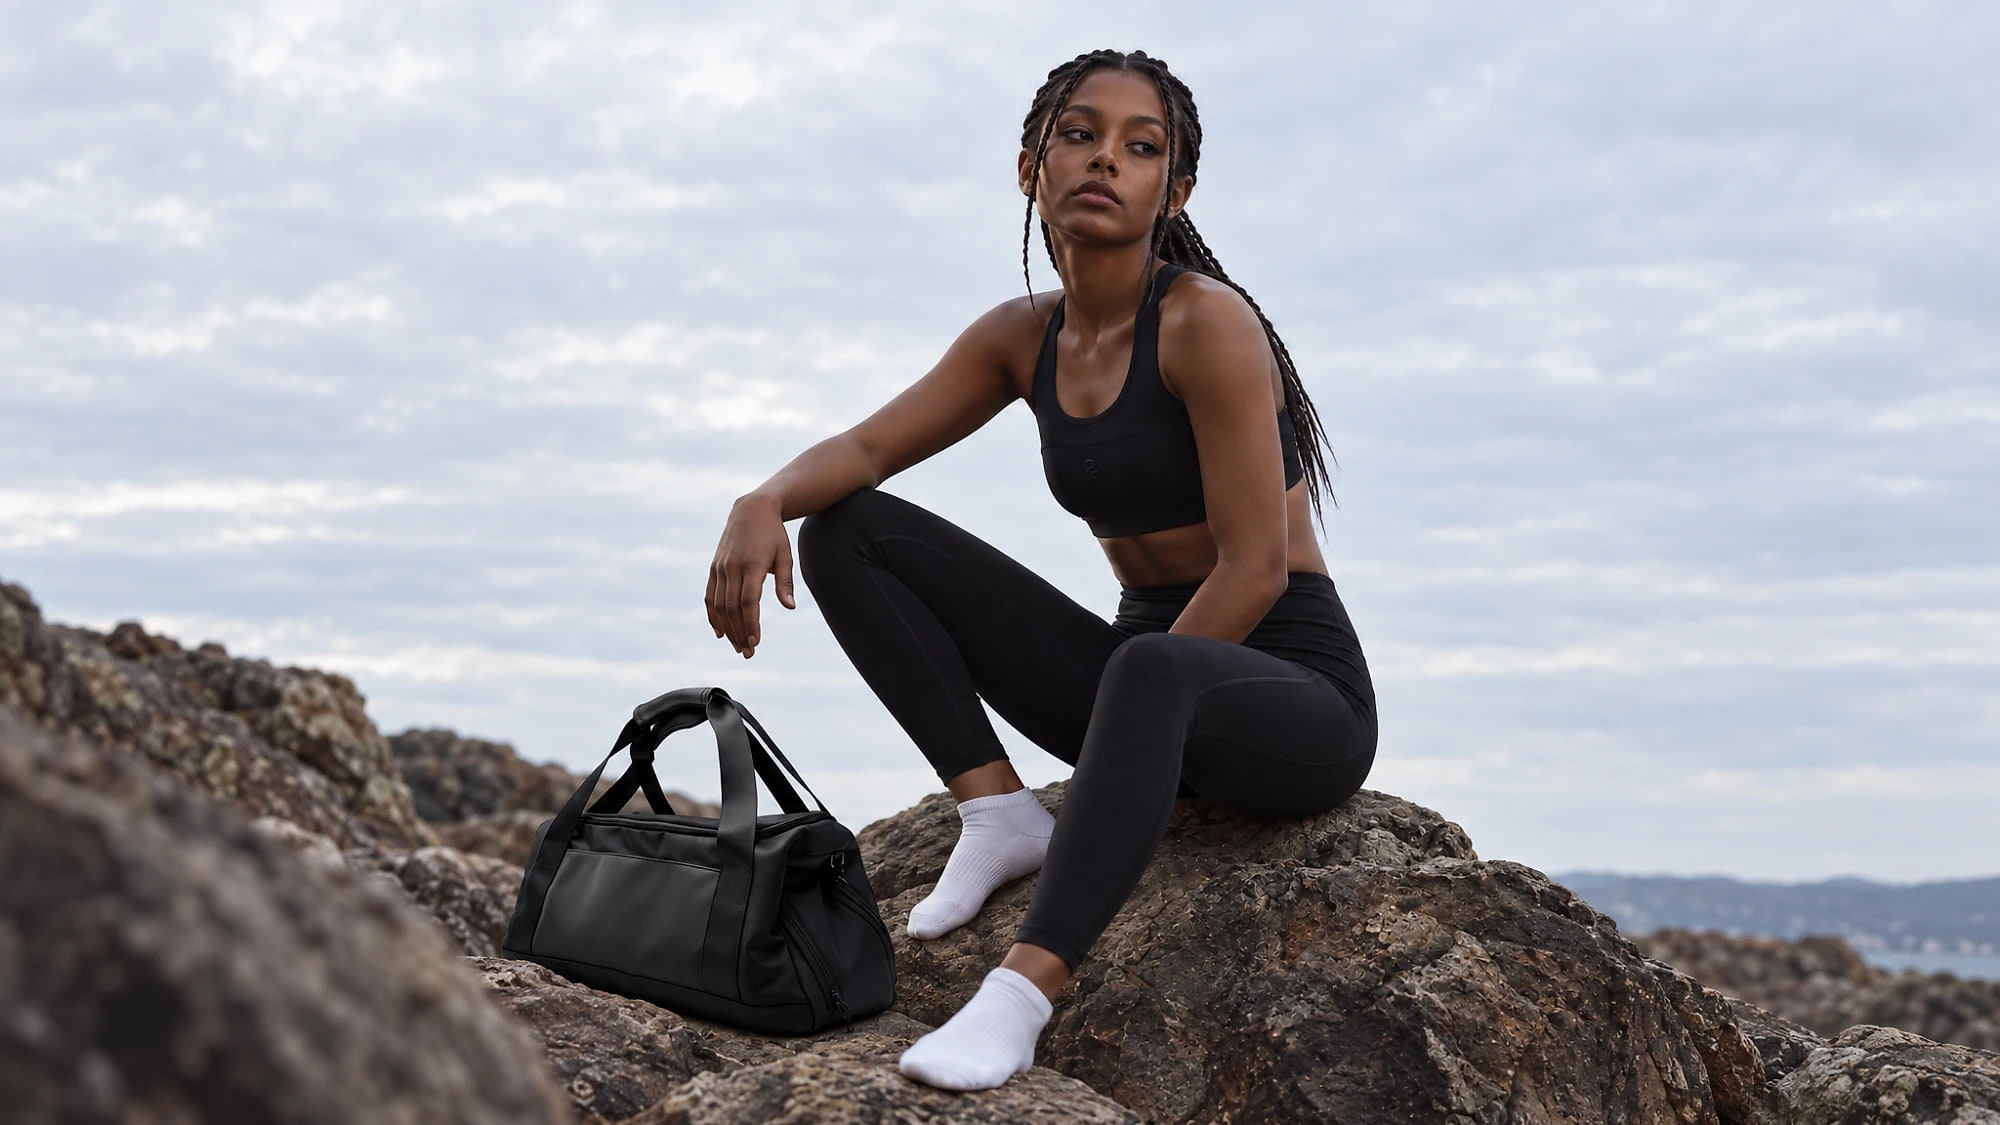
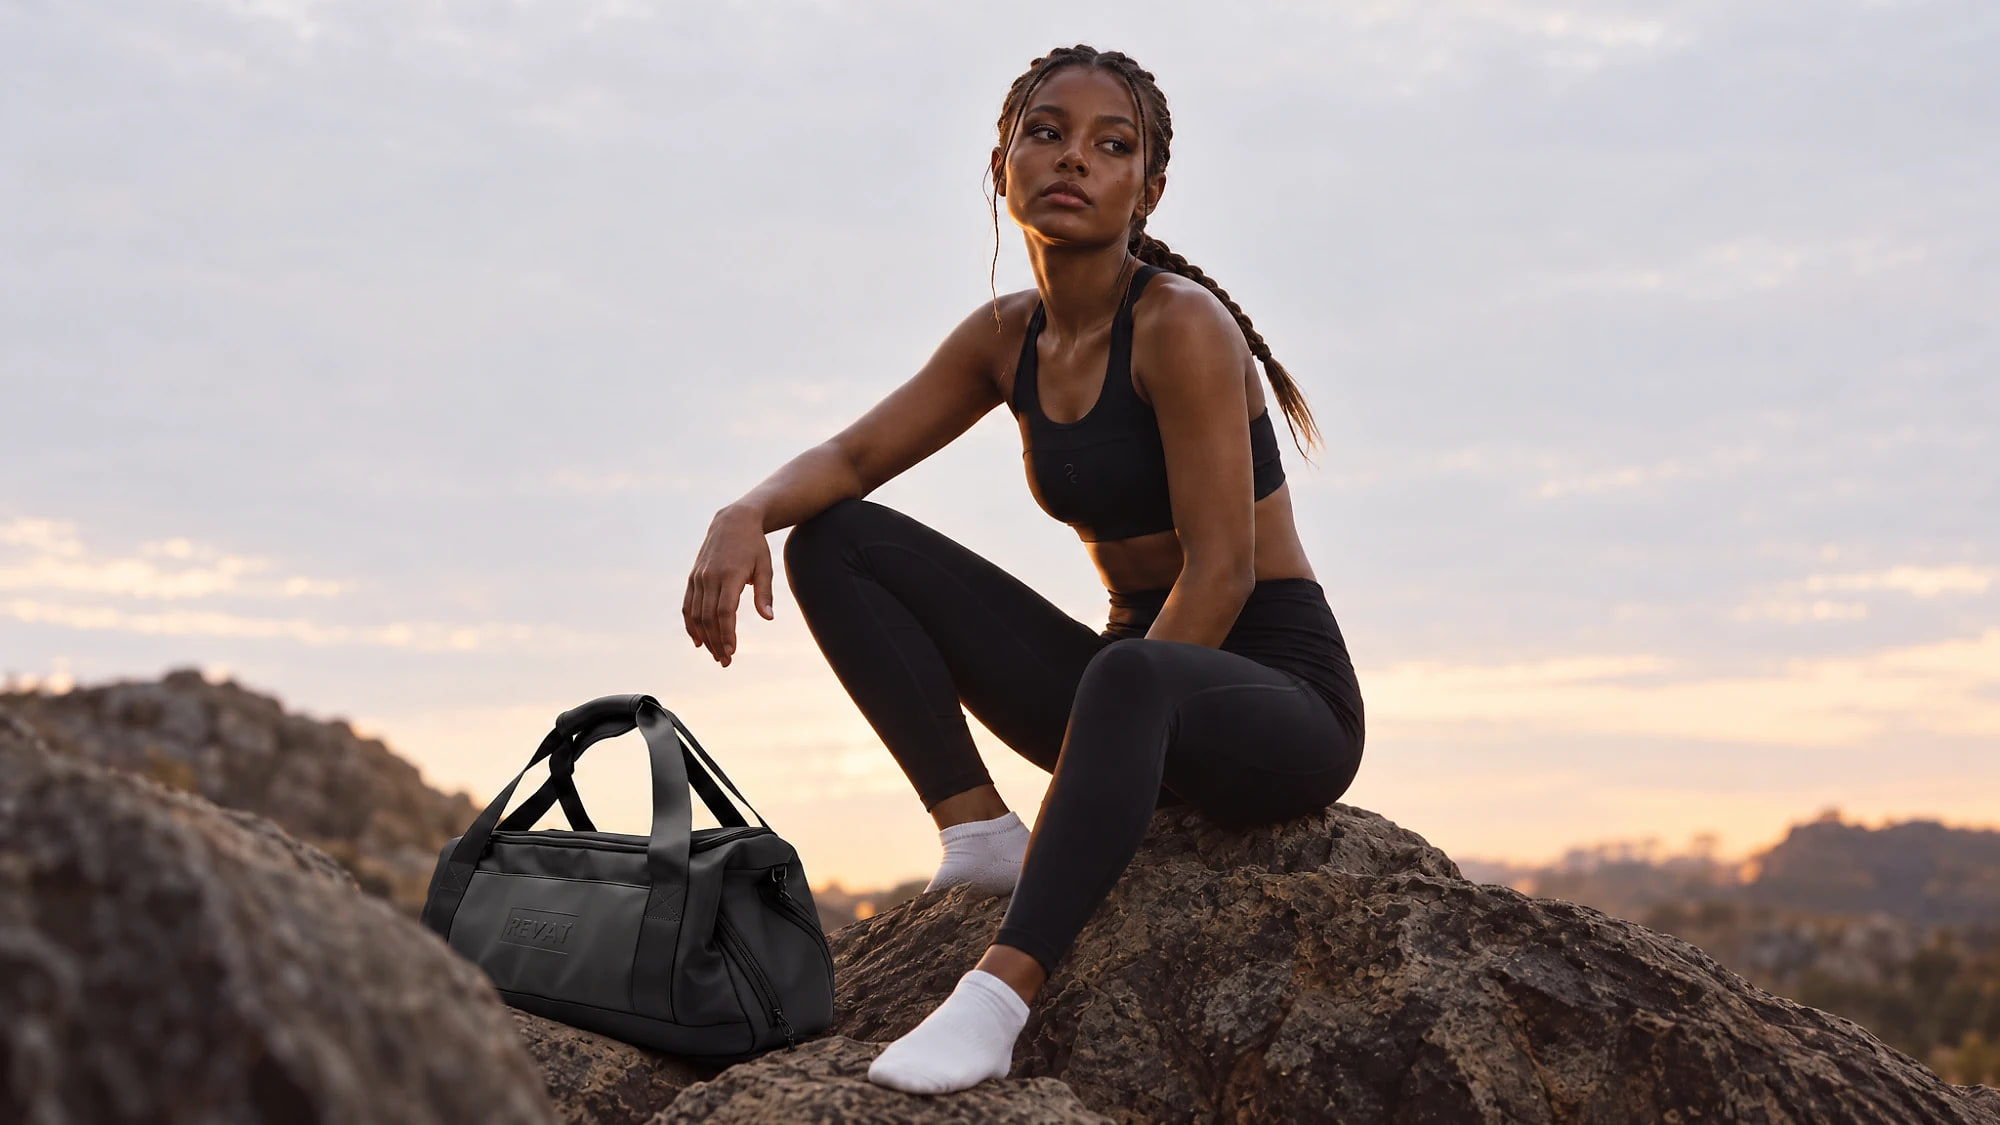
Homepage hero: woman + gym bag on the rocks; copy moves to the right
Yumna (11 Nov): "perfect change to this and push". New hero-photo.jpg
(2000x1125, homepage sharpen recipe). The bag sits bottom-left where the
copy used to be, so the eyebrow / Women · Men / title / Shop now and the
shade are now bottom-right from 768px; phones keep the words under the
photo, left-aligned. Share image rebuilt from the new hero.

diff --git a/index.html b/index.html
@@ -72,8 +72,8 @@
        under it, and a dark colour here would turn the header black with black icons. */
     #home-hero .hv{position:relative;aspect-ratio:2048/1152;background:linear-gradient(#0d0d0d,#0d0d0d);overflow:hidden} /* 29 Oct (Yumna): band takes the photo's own 16:9 shape so the whole picture shows on every screen (was a fixed 560px / 360px on phones) */
     /* Hero copy, bottom left (29 Oct 2026, Yumna: option C after trying A): small "Collection 01" eyebrow, light large title, white outline Shop now button, over a soft corner shade. */
-    #home-hero .hero-shade{position:absolute;left:0;bottom:0;width:60%;height:55%;background:linear-gradient(to top right,rgba(0,0,0,.55),rgba(0,0,0,0) 60%);pointer-events:none}
-    #home-hero .hero-copy{position:absolute;left:clamp(24px,3.9vw,56px);bottom:clamp(24px,3.9vw,56px);z-index:2;color:#fff;text-align:left} /* 10 Nov: inset and type now scale with the photo (see .hero-title) */ /* 1 Nov: back to the LEFT with the woman-on-rocks shot (she sits right); 30 Oct pair shot had it right */
+    #home-hero .hero-shade{position:absolute;right:0;bottom:0;width:60%;height:55%;background:linear-gradient(to top left,rgba(0,0,0,.55),rgba(0,0,0,0) 60%);pointer-events:none}
+    #home-hero .hero-copy{position:absolute;right:clamp(24px,3.9vw,56px);bottom:clamp(24px,3.9vw,56px);z-index:2;color:#fff;text-align:right} /* 11 Nov (Yumna): copy on the RIGHT for the woman + gym bag rocks shot; the bag sits bottom-left where the copy used to be */ /* 10 Nov: inset and type now scale with the photo (see .hero-title) */ /* 1 Nov: back to the LEFT with the woman-on-rocks shot (she sits right); 30 Oct pair shot had it right */
     #home-hero .hero-eyeb{margin:0 0 clamp(8px,1vw,14px);font-size:11px;letter-spacing:.32em;text-transform:uppercase;color:#fff;opacity:.85}
     #home-hero .hero-mw{margin:0 0 clamp(8px,1vw,14px);font-size:11px;letter-spacing:.32em;text-transform:uppercase;color:#fff;opacity:.85} /* 1 Nov (Yumna): WOMEN · MEN under the eyebrow, in the eyebrow's own style (option 2; was option D, 15px light); links to Shop All by gender */
     #home-hero .hero-mw a{color:#fff;text-decoration:none}
@@ -101,7 +101,7 @@
       #home-hero .hv{aspect-ratio:auto;background:none;overflow:visible}
       #home-hero .hv img{position:static;display:block;width:100%;height:auto;aspect-ratio:1/1;object-position:50% 50%}
       #home-hero .hero-shade{display:none}
-      #home-hero .hero-copy{position:static;color:#0a0a0a;padding:22px 24px 4px}
+      #home-hero .hero-copy{position:static;color:#0a0a0a;padding:22px 24px 4px;text-align:left}
       #home-hero .hero-eyeb{font-size:11px;margin-bottom:8px;color:#6b7280;opacity:1}
       #home-hero .hero-mw{font-size:11px;margin-bottom:12px;color:#0a0a0a;opacity:1}
       #home-hero .hero-mw a{color:#0a0a0a}
